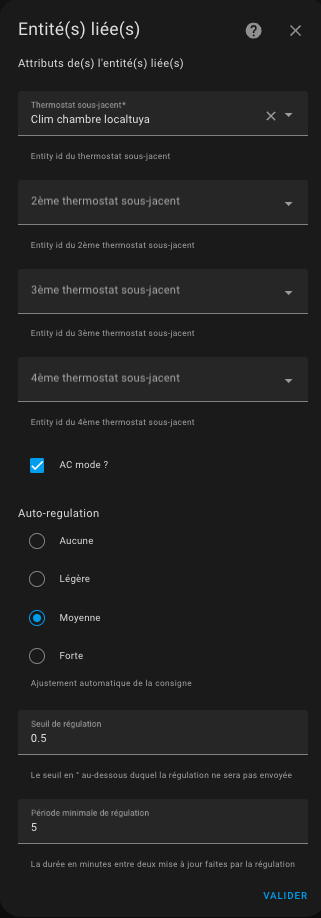
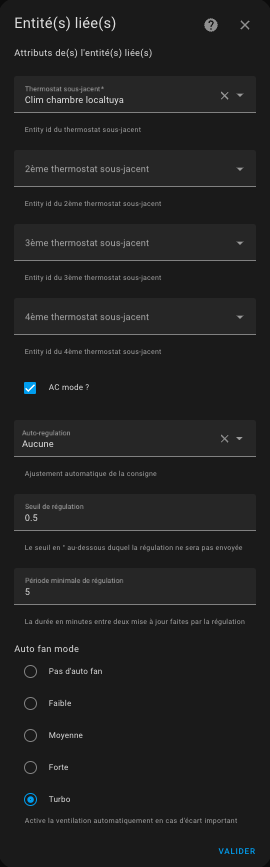
Update README

diff --git a/custom_components/versatile_thermostat/const.py b/custom_components/versatile_thermostat/const.py
@@ -263,7 +263,7 @@ ATTR_TOTAL_ENERGY = "total_energy"
 ATTR_MEAN_POWER_CYCLE = "mean_cycle_power"
 
 AUTO_FAN_DTEMP_THRESHOLD = 2
-AUTO_FAN_DEACTIVATED_MODES = ["mute", "silent", "auto", "low"]
+AUTO_FAN_DEACTIVATED_MODES = ["mute", "auto", "low"]
 
 
 #  A special regulation parameter suggested by @Maia here: https://github.com/jmcollin78/versatile_thermostat/discussions/154

diff --git a/README.md b/README.md
@@ -23,6 +23,7 @@
     - [For a thermostat of type ```thermostat_over_climate```:](#for-a-thermostat-of-type-thermostat_over_climate)
       - [Self-regulation](#self-regulation)
       - [Self-regulation in Expert mode](#self-regulation-in-expert-mode)
+      - [Auto-fan mode](#auto-fan-mode)
     - [For a thermostat of type ```thermostat_over_valve```:](#for-a-thermostat-of-type-thermostat_over_valve)
   - [Configure the TPI algorithm coefficients](#configure-the-tpi-algorithm-coefficients)
   - [Configure the preset temperature](#configure-the-preset-temperature)
@@ -54,7 +55,7 @@
   - [Much better with the Veersatile Thermostat UI Card](#much-better-with-the-veersatile-thermostat-ui-card)
   - [Even Better with Scheduler Component !](#even-better-with-scheduler-component-)
   - [Even-even better with custom:simple-thermostat front integration](#even-even-better-with-customsimple-thermostat-front-integration)
-  - [Even better with Apex-chart to tune your Thermostat](#even-better-with-apex-chart-to-tune-your-thermostat)
+  - [Even better with Plotly to tune your Thermostat](#even-better-with-plotly-to-tune-your-thermostat)
   - [And always better and better with the NOTIFIER daemon app to notify events](#and-always-better-and-better-with-the-notifier-daemon-app-to-notify-events)
 - [Contributions are welcome!](#contributions-are-welcome)
 - [Troubleshooting](#troubleshooting)
@@ -67,7 +68,8 @@
 This custom component for Home Assistant is an upgrade and is a complete rewrite of the component "Awesome thermostat" (see [Github](https://github.com/dadge/awesome_thermostat)) with addition of features.
 
 >![New](https://github.com/jmcollin78/versatile_thermostat/blob/main/images/new-icon.png?raw=true) _*News*_
-> * **Release 4.2**: The calculation of the slope of the temperature curve is now done in °/hour and no longer in °/min [#242](https://github.com/jmcollin78/versatile_thermostat/ issues/242). Correction of automatic detection of openings by adding smoothing of the temperature curve.
+> * **Release 4.3**: Added an auto-fan mode for the `over_climate` type allowing ventilation to be activated if the temperature difference is significant [#223](https://github.com/jmcollin78/versatile_thermostat/issues/223).
+> * **Release 4.2**: The calculation of the slope of the temperature curve is now done in °/hour and no longer in °/min [#242](https://github.com/jmcollin78/versatile_thermostat/issues/242). Correction of automatic detection of openings by adding smoothing of the temperature curve.
 > * **Release 4.1**: Added an **Expert** regulation mode in which the user can specify their own auto-regulation parameters instead of using the pre-programmed ones [#194]( https://github.com/jmcollin78/versatile_thermostat/issues/194).
 > * **Release 4.0**: Added the support of **Versatile Thermostat UI Card**. See [Versatile Thermostat UI Card](https://github.com/jmcollin78/versatile-thermostat-ui-card). Added a **Slow** regulation mode for slow latency heating devices [#168](https://github.com/jmcollin78/versatile_thermostat/issues/168). Change the way **the power is calculated** in case of VTherm with multi-underlying equipements [#146](https://github.com/jmcollin78/versatile_thermostat/issues/146). Added the support of AC and Heat for VTherm over switch alse [#144](https://github.com/jmcollin78/versatile_thermostat/pull/144)
 > * **Release 3.8**: Added a **self-regulation function** for `over climate` thermostats whose regulation is done by the underlying climate. See [Self-regulation](#self-regulation) and [#129](https://github.com/jmcollin78/versatile_thermostat/issues/129). Added the possibility of **inverting the command** for an `over switch` thermostat to address installations with pilot wire and diode [#124](https://github.com/jmcollin78/versatile_thermostat/issues/124).
@@ -310,6 +312,14 @@ versatile_thermostat:
 and of course, configure the VTherm's self-regulation mode in **Expert** mode. All VTherms in Expert mode will use these same settings.
 
 For the changes to be taken into account, you must either **completely restart Home Assistant** or just the **Versatile Thermostat integration** (Dev tools / Yaml / reloading the configuration / Versatile Thermostat).
+
+#### Auto-fan mode
+This mode introduced in 4.3 makes it possible to force the use of ventilation if the temperature difference is significant. In fact, by activating ventilation, distribution occurs more quickly, which saves time in reaching the target temperature.
+You can choose which ventilation you want to activate between the following settings: Low, Medium, High, Turbo.
+
+Obviously your underlying equipment must be equipped with ventilation and be controllable for this to work.
+If your equipment does not include Turbo mode, Forte` mode will be used as a replacement.
+Once the temperature difference becomes low again, the ventilation will go into a "normal" mode which depends on your equipment, namely (in order): `Silence (mute)`, `Auto (auto)`, `Low (low)`. The first value that is possible for your equipment will be chosen.
 
 ### For a thermostat of type ```thermostat_over_valve```:
 ![image](https://github.com/jmcollin78/versatile_thermostat/blob/main/images/config-linked-entity3.png?raw=true)
@@ -884,53 +894,73 @@ You can customize this component using the HACS card-mod component to adjust the
 ```
 ![image](https://github.com/jmcollin78/versatile_thermostat/blob/main/images/custom-css-thermostat.png?raw=true)
 
-## Even better with Apex-chart to tune your Thermostat
-You can get curve like presented in [some results](#some-results) with kind of Apex-chart configuration only using the custom attributes of the thermostat described [here](#custom-attributes):
+## Even better with Plotly to tune your Thermostat
+You can get curve like presented in [some results](#some-results) with kind of Plotly configuration only using the custom attributes of the thermostat described [here](#custom-attributes):
 
+Replace values in [[ ]] by yours.
 ```
-type: custom:apexcharts-card
-header:
-  show: true
-  title: Tuning chauffage
-  show_states: true
-  colorize_states: true
-update_interval: 60sec
-graph_span: 4h
-yaxis:
-  - id: left
-    show: true
-    decimals: 2
-  - id: right
-    decimals: 2
-    show: true
-    opposite: true
-series:
-  - entity: climate.thermostat_mythermostat
-    attribute: temperature
-    type: line
-    name: Target temp
-    curve: smooth
-    yaxis_id: left
-  - entity: climate.thermostat_mythermostat
-    attribute: current_temperature
-    name: Current temp
-    curve: smooth
-    yaxis_id: left
-  - entity: climate.thermostat_mythermostat    <--- for over_switch
-    attribute: on_percent
-    name: Power percent
-    curve: stepline
-    yaxis_id: right
-  - entity: climate.thermostat_mythermostat    <--- for over_thermostast
-    attribute: regulated_target_temperature
-    name: Regulated temperature
-    curve: stepline
-    yaxis_id: left
-  - entity: climate.thermostat_mythermostat    <--- for over_valve
-    attribute: valve_open_percent
-    name: Valve open percent
-    curve: stepline
-    yaxis_id: right
+- type: custom:plotly-graph
+  entities:
+    - entity: '[[climate]]'
+      attribute: temperature
+      yaxis: y1
+      name: Consigne
+    - entity: '[[climate]]'
+      attribute: current_temperature
+      yaxis: y1
+      name: T°
+    - entity: '[[climate]]'
+      attribute: ema_temp
+      yaxis: y1
+      name: Ema
+    - entity: '[[climate]]'
+      attribute: regulated_target_temperature
+      yaxis: y1
+      name: Regulated T°
+    - entity: '[[slope]]'
+      name: Slope
+      fill: tozeroy
+      yaxis: y9
+      fillcolor: rgba(100, 100, 100, 0.3)
+      line:
+        color: rgba(100, 100, 100, 0.9)
+  hours_to_show: 4
+  refresh_interval: 10
+  height: 800
+  config:
+    scrollZoom: true
+  layout:
+    margin:
+      r: 50
+    legend:
+      x: 0
+      'y': 1.2
+      groupclick: togglegroup
+      title:
+        side: top right
+    yaxis:
+      visible: true
+      position: 0
+    yaxis9:
+      visible: true
+      fixedrange: false
+      range:
+        - -0.5
+        - 0.5
+      position: 1
+    xaxis:
+      rangeselector:
+        'y': 1.1
+        x: 0.7
+        buttons:
+          - count: 1
+            step: hour
+          - count: 12
+            step: hour
+          - count: 1
+            step: day
+          - count: 7
+            step: day
 ```
 
 ## And always better and better with the NOTIFIER daemon app to notify events

diff --git a/README-fr.md b/README-fr.md
@@ -23,6 +23,7 @@
     - [Pour un thermostat de type ```thermostat_over_climate```:](#pour-un-thermostat-de-type-thermostat_over_climate)
       - [L'auto-régulation](#lauto-régulation)
       - [L'auto-régulation en mode Expert](#lauto-régulation-en-mode-expert)
+      - [Le mode auto-fan](#le-mode-auto-fan)
     - [Pour un thermostat de type ```thermostat_over_valve```:](#pour-un-thermostat-de-type-thermostat_over_valve)
   - [Configurez les coefficients de l'algorithme TPI](#configurez-les-coefficients-de-lalgorithme-tpi)
   - [Configurer la température préréglée](#configurer-la-température-préréglée)
@@ -55,7 +56,7 @@
   - [Bien mieux avec le Versatile Thermostat UI Card](#bien-mieux-avec-le-versatile-thermostat-ui-card)
   - [Encore mieux avec le composant Scheduler !](#encore-mieux-avec-le-composant-scheduler-)
   - [Encore bien mieux avec la custom:simple-thermostat front integration](#encore-bien-mieux-avec-la-customsimple-thermostat-front-integration)
-  - [Toujours mieux avec Apex-chart pour régler votre thermostat](#toujours-mieux-avec-apex-chart-pour-régler-votre-thermostat)
+  - [Toujours mieux avec Plotly pour régler votre thermostat](#toujours-mieux-avec-plotly-pour-régler-votre-thermostat)
   - [Et toujours de mieux en mieux avec l'AappDaemon NOTIFIER pour notifier les évènements](#et-toujours-de-mieux-en-mieux-avec-laappdaemon-notifier-pour-notifier-les-évènements)
 - [Les contributions sont les bienvenues !](#les-contributions-sont-les-bienvenues)
 - [Dépannages](#dépannages)
@@ -68,6 +69,7 @@ Ce composant personnalisé pour Home Assistant est une mise à niveau et est une
 
 
 > ![Nouveau](https://github.com/jmcollin78/versatile_thermostat/blob/main/images/new-icon.png?raw=true) _*Nouveautés*_
+> * **Release 4.3** : Ajout d'un mode auto-fan pour le type `over_climate` permettant d'activer la ventilation si l'écart de température est important [#223](https://github.com/jmcollin78/versatile_thermostat/issues/223).
 > * **Release 4.2** : Le calcul de la pente de la courbe de température se fait maintenant en °/heure et non plus en °/min [#242](https://github.com/jmcollin78/versatile_thermostat/issues/242). Correction de la détection automatique des ouvertures par l'ajout d'un lissage de la courbe de température .
 > * **Release 4.1** : Ajout d'un mode de régulation **Expert** dans lequel l'utilisateur peut spécifier ses propres paramètres d'auto-régulation au lieu d'utiliser les pre-programmés [#194](https://github.com/jmcollin78/versatile_thermostat/issues/194).
 > * **Release 4.0** : Ajout de la prise en charge de la **Versatile Thermostat UI Card**. Voir [Versatile Thermostat UI Card](https://github.com/jmcollin78/versatile-thermostat-ui-card). Ajout d'un mode de régulation **Slow** pour les appareils de chauffage à latence lente [#168](https://github.com/jmcollin78/versatile_thermostat/issues/168). Changement de la façon dont **la puissance est calculée** dans le cas de VTherm avec des équipements multi-sous-jacents [#146](https://github.com/jmcollin78/versatile_thermostat/issues/146). Ajout de la prise en charge de AC et Heat pour VTherm via un interrupteur également [#144](https://github.com/jmcollin78/versatile_thermostat/pull/144)
@@ -314,6 +316,15 @@ versatile_thermostat:
 et bien sur, configurer le mode auto-régulation du VTherm en mode Expert. Tous les VTherm en mode **Expert** utiliseront ces mêmes paramètres.
 
 Pour que les modifications soient prises en compte, il faut soit **relancer totalement Home Assistant** soit juste l'intégration Versatile Thermostat (Outils de dev / Yaml / rechargement de la configuration / Versatile Thermostat).
+
+
+#### Le mode auto-fan
+Ce mode introduit en 4.3 permet de forcer l'usage de la ventilation si l'écart de température est important. En effet, en activant la ventilation, la répartition se fait plus rapidement ce qui permet de gagner du temps dans l'atteinte de la température cible.
+Vous pouvez choisir quelle ventilation vous voulez activer entre les paramètres suivants : Faible, Moyenne, Forte, Turbo.
+
+Il faut évidemment que votre équipement sous-jacent soit équipée d'une ventilation et quelle soit pilotable pour que cela fonctionne.
+Si votre équipement ne comprend pas le mode Turbo, le mode Forte` sera utilisé en remplacement.
+Une fois l'écart de température redevenu faible, la ventilation se mettra dans un mode "normal" qui dépend de votre équipement à savoir (dans l'ordre) : `Silence (mute)`, `Auto (auto)`, `Faible (low)`. La première valeur qui est possible pour votre équipement sera choisie.
 
 ### Pour un thermostat de type ```thermostat_over_valve```:
 ![image](https://github.com/jmcollin78/versatile_thermostat/blob/main/images/config-linked-entity3.png?raw=true)
@@ -902,53 +913,73 @@ Vous pouvez personnaliser ce composant à l'aide du composant HACS card-mod pour
 ```
 ![image](https://github.com/jmcollin78/versatile_thermostat/blob/main/images/custom-css-thermostat.png?raw=true)
 
-## Toujours mieux avec Apex-chart pour régler votre thermostat
-Vous pouvez obtenir une courbe comme celle présentée dans [some results](#some-results) avec une sorte de configuration de graphique Apex uniquement en utilisant les attributs personnalisés du thermostat décrits [ici](#custom-attributes) :
+## Toujours mieux avec Plotly pour régler votre thermostat
+Vous pouvez obtenir une courbe comme celle présentée dans [some results](#some-results) avec une sorte de configuration de graphique Plotly uniquement en utilisant les attributs personnalisés du thermostat décrits [ici](#custom-attributes) :
 
+Remplacez les valeurs entre [[ ]] par les votres.
 ```
-type: custom:apexcharts-card
-header:
-  show: true
-  title: Tuning chauffage
-  show_states: true
-  colorize_states: true
-update_interval: 60sec
-graph_span: 4h
-yaxis:
-  - id: left
-    show: true
-    decimals: 2
-  - id: right
-    decimals: 2
-    show: true
-    opposite: true
-series:
-  - entity: climate.thermostat_mythermostat
-    attribute: temperature
-    type: line
-    name: Target temp
-    curve: smooth
-    yaxis_id: left
-  - entity: climate.thermostat_mythermostat
-    attribute: current_temperature
-    name: Current temp
-    curve: smooth
-    yaxis_id: left
-  - entity: climate.thermostat_mythermostat    <--- for over_switch
-    attribute: on_percent
-    name: Power percent
-    curve: stepline
-    yaxis_id: right
-  - entity: climate.thermostat_mythermostat    <--- for over_thermostast
-    attribute: regulated_target_temperature
-    name: Regulated temperature
-    curve: stepline
-    yaxis_id: left
-  - entity: climate.thermostat_mythermostat    <--- for over_valve
-    attribute: valve_open_percent
-    name: Valve open percent
-    curve: stepline
-    yaxis_id: right
+- type: custom:plotly-graph
+  entities:
+    - entity: '[[climate]]'
+      attribute: temperature
+      yaxis: y1
+      name: Consigne
+    - entity: '[[climate]]'
+      attribute: current_temperature
+      yaxis: y1
+      name: T°
+    - entity: '[[climate]]'
+      attribute: ema_temp
+      yaxis: y1
+      name: Ema
+    - entity: '[[climate]]'
+      attribute: regulated_target_temperature
+      yaxis: y1
+      name: Regulated T°
+    - entity: '[[slope]]'
+      name: Slope
+      fill: tozeroy
+      yaxis: y9
+      fillcolor: rgba(100, 100, 100, 0.3)
+      line:
+        color: rgba(100, 100, 100, 0.9)
+  hours_to_show: 4
+  refresh_interval: 10
+  height: 800
+  config:
+    scrollZoom: true
+  layout:
+    margin:
+      r: 50
+    legend:
+      x: 0
+      'y': 1.2
+      groupclick: togglegroup
+      title:
+        side: top right
+    yaxis:
+      visible: true
+      position: 0
+    yaxis9:
+      visible: true
+      fixedrange: false
+      range:
+        - -0.5
+        - 0.5
+      position: 1
+    xaxis:
+      rangeselector:
+        'y': 1.1
+        x: 0.7
+        buttons:
+          - count: 1
+            step: hour
+          - count: 12
+            step: hour
+          - count: 1
+            step: day
+          - count: 7
+            step: day
 ```
 
 ## Et toujours de mieux en mieux avec l'AappDaemon NOTIFIER pour notifier les évènements
